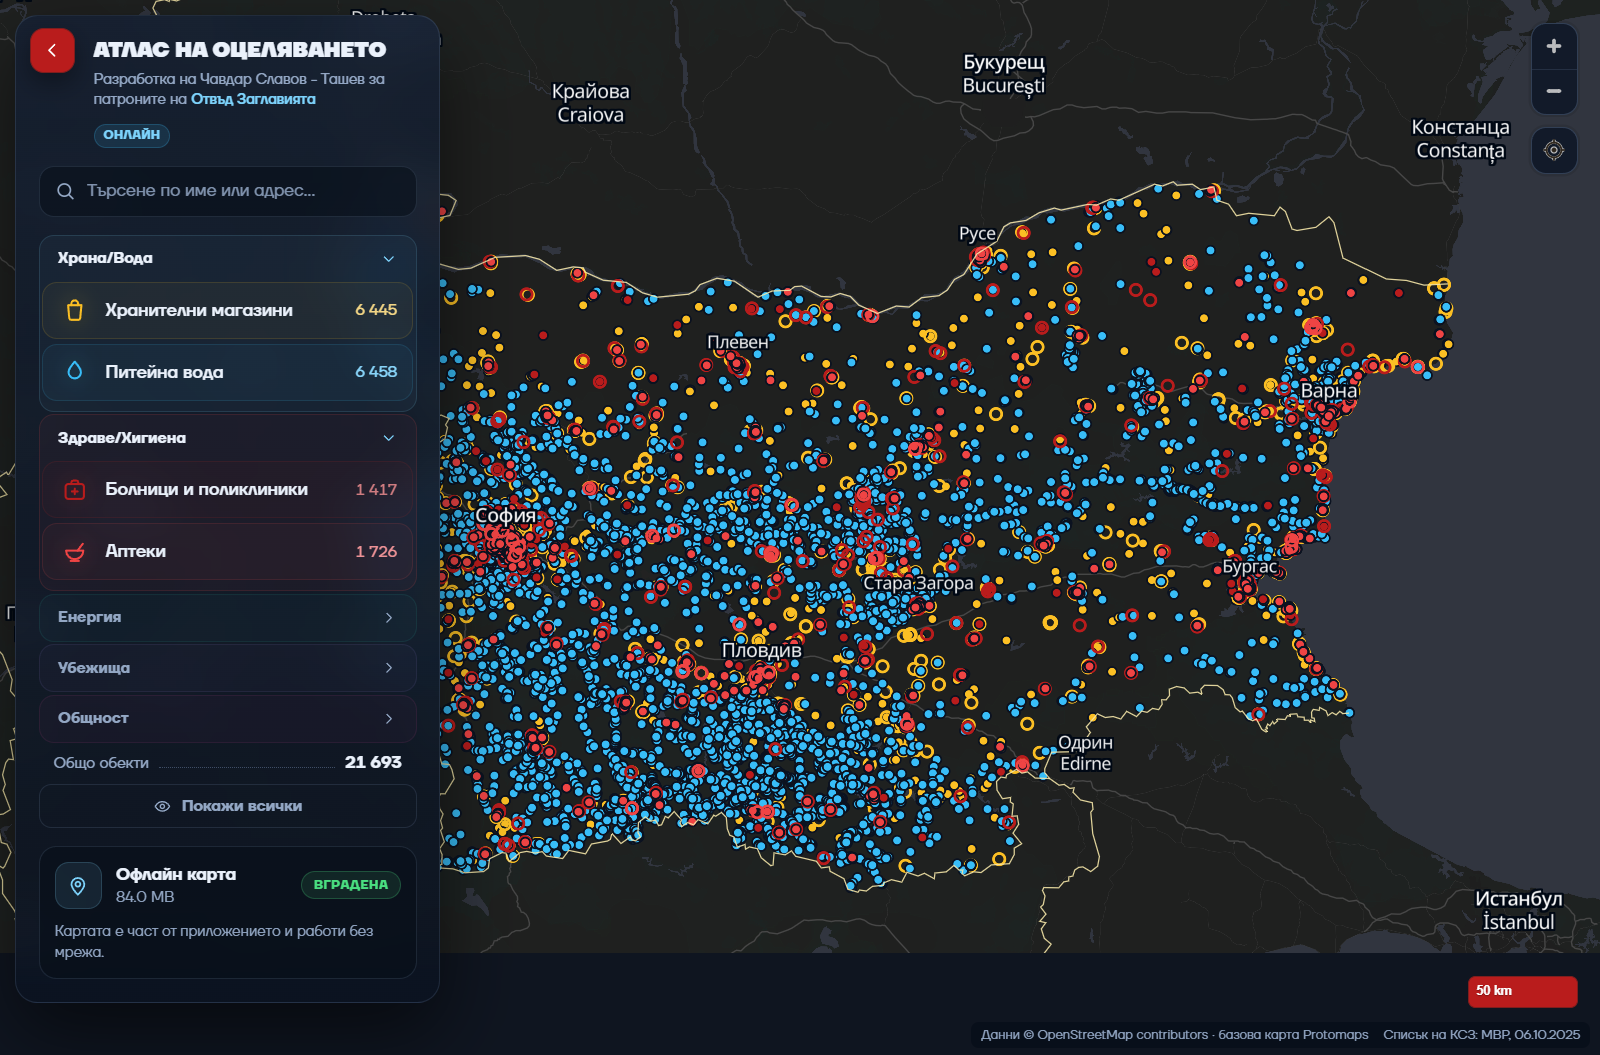
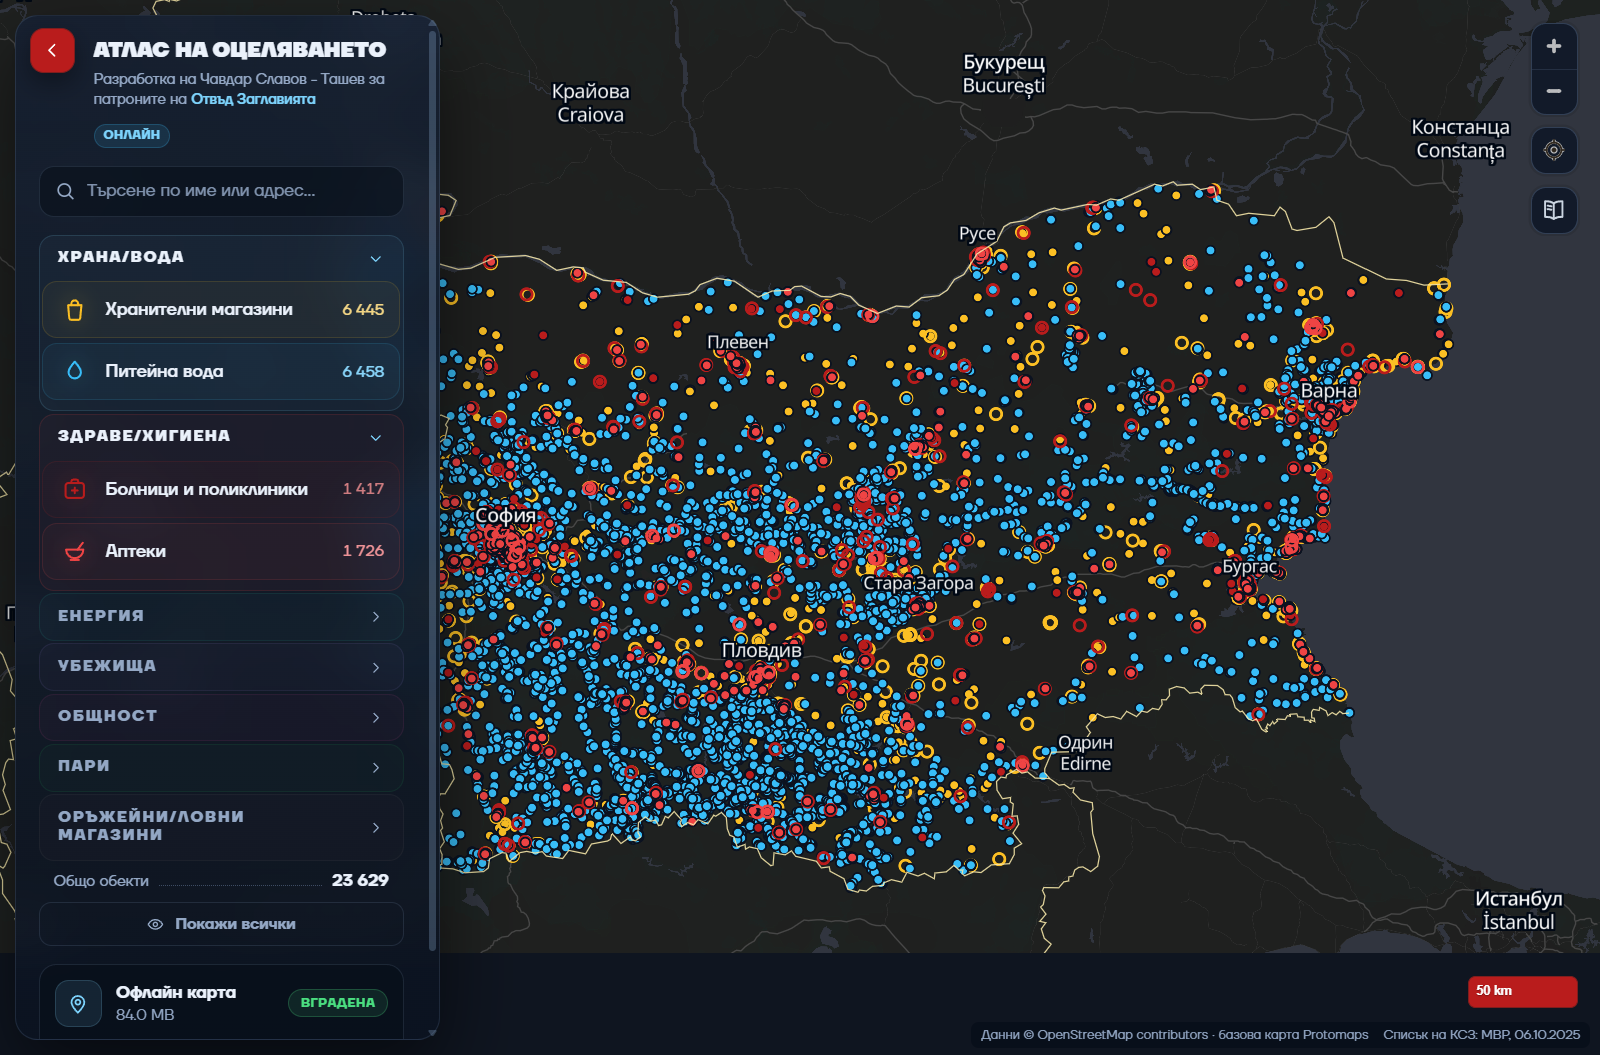
Release 0.4.0
13 layers / 23 629 objects, near-me radius, offline document library, Windows installer and signed Android APK.

diff --git a/RELEASE_NOTES.md b/RELEASE_NOTES.md
@@ -1,43 +1,65 @@
-# АТЛАС НА ОЦЕЛЯВАНЕТО 0.3.0
+# АТЛАС НА ОЦЕЛЯВАНЕТО 0.4.0
 
-Трето публично издание за Windows: GPS локация и ново лого.
+Четвърто публично издание: още слоеве, „Близо до мен“ и офлайн библиотека.
+За Windows и Android (arm64).
 
 ## Какво ново
 
-- **GPS локация** — бутон под зуум контролите:
-  - центрира и приближава картата до позицията ти;
-  - показва маркер (бяло ядро, циан пръстен и пулс) и кръг на точността;
-  - режим на следене с повторен клик;
-  - работи офлайн; координатите не се изпращат към сървър;
-  - при отказано разрешение или недостъпна локация има кратко съобщение.
-- Всичко от 0.2.0: **21 693 обекта в 11 слоя**, панел-акордеон, търсене по име и адрес,
-  бутон „Покажи/Скрий всички“, официален списък на убежищата от МВР.
+- **13 слоя с 23 629 обекта** — добавени са:
+  - **Пари** — банкомати (1 882);
+  - **Оръжейни/Ловни магазини** — 54 обекта.
+- **„Близо до мен“** — GPS бутон и панел с радиус 500 м / 1 / 2 / 5 км:
+  - бройки по категории и списък с разстояние и посока;
+  - кръг на избрания радиус върху картата;
+  - тап на обект центрира картата и отваря детайлите;
+  - на телефон панелът се затваря, за да остане картата видима.
+- **Библиотека с документи** — бутон с разтворена книга:
+  - „Раница за бедствия“ — какво да подготвим за 72 часа;
+  - „Правила при бедствия“ — пожар, земетресение, наводнение, зима, промишлена и
+    радиационна авария, буря;
+  - „Сигнали и BG-ALERT“ — какво означават сирените и съобщенията на телефона;
+  - списък на колективните средства за защита от МВР (247 обекта в 21 области).
+  - Всички документи са вградени и работят офлайн.
+- Всичко от 0.3.0: GPS локация, панел-акордеон, търсене по име и адрес, бутон
+  „Покажи/Скрий всички“, офлайн карта с вградени плочки.
 
 ## Инсталация
 
-1. Свали `Atlas-0.3.0-x64-setup.exe`.
+### Windows 10/11 x64
+
+1. Свали `Atlas-0.4.0-x64-setup.exe`.
 2. При SmartScreen: **More info → Run anyway** (инсталаторът е неподписан).
 3. Next → Install. Инсталира се за текущия потребител, без админ.
 
-Windows 10/11 x64. Размер ~89 MB. След инсталация не е нужен интернет.
+Размер ~89 MB. След инсталация не е нужен интернет.
 
-## Проверка на файла
+### Android 7+ (arm64)
+
+1. Свали `Atlas-0.4.0-android-arm64.apk`.
+2. Отвори файла и разреши инсталация от този източник, ако телефонът поиска.
+3. Инсталирай. APK-ът е подписан с release ключ и се обновява върху предишната версия.
+
+## Проверка на файловете
 
 SHA-256:
 
 ```text
-0ec233579c6e19c87faa2a7c8464b9e12c0ba557bddb7b71f5690a5bc1acdc16  Atlas-0.3.0-x64-setup.exe
+e2f557702feef36db65f9a1c9496ced3a82b897cd192e1440492aee5f55152ad  Atlas-0.4.0-x64-setup.exe
+0e8715cb1aa883c6de0eaced19b67f43e98dc2613dcc85489b716092b84c6e37  Atlas-0.4.0-android-arm64.apk
 ```
+
+Пълният списък е в `SHA256SUMS.txt`.
 
 ## Лиценз и данни
 
-Кодът е proprietary; виж `LICENSE`. OSM данните са под ODbL 1.0, шрифтовете Noto са
-под OFL 1.1. Кредитите са в `ATTRIBUTION.md` и в самото приложение.
+Кодът е proprietary; виж `LICENSE`. OSM данните са под ODbL 1.0, базовата карта е
+Protomaps. Кредитите са в `ATTRIBUTION.md` и в самото приложение.
 
 ## Известни ограничения
 
-- Инсталаторът не е подписан — SmartScreen предупреждава.
-- На Windows GPS зависи от включената Location услуга; точността на закрито е по-ниска.
+- Windows инсталаторът не е подписан — SmartScreen предупреждава.
+- Android APK е само за arm64; при стар телефон или емулатор може да не се инсталира.
 - При национален zoom точките се застъпват; изборът при застъпване предстои.
 - 175 от 247 убежища са с приблизителни координати (улица или населено място).
 - Маршрути няма — приложението показва локация и обекти, но не строи път.
+

diff --git a/ATTRIBUTION.md b/ATTRIBUTION.md
@@ -23,6 +23,16 @@
 - Координатите са геокодирани чрез **OpenStreetMap/Nominatim** и са под ODbL; те не са
   официални координати от МВР. Точността е отбелязана в детайлите на всеки обект.
 
+## Библиотека с документи
+
+- „Раница за бедствия“ — адаптирано от официалната брошура на **МВР/ГДПБЗН**, 2025 г.
+- „Правила при бедствия“ — адаптирано и съкратено от „Правила за безопасно поведение и
+  сигнали за ранно предупреждение и оповестяване на населението“, **МВР/ГДПБЗН**.
+- „Сигнали и BG-ALERT“ — по официалната страница за сигналите на **МВР/ГДПБЗН** и
+  официалния сайт на **BG-ALERT** (https://www.bg-alert.bg/).
+- Текстовете са преработени за мобилно четене и не заместват официалните указания.
+  Актуалните версии са на https://www.mvr.bg/gdpbzn и https://www.bg-alert.bg/.
+
 ## Софтуерни компоненти
 
 - **MapLibre GL JS** — BSD-3-Clause — `licenses/maplibre-gl-LICENSE.txt`
